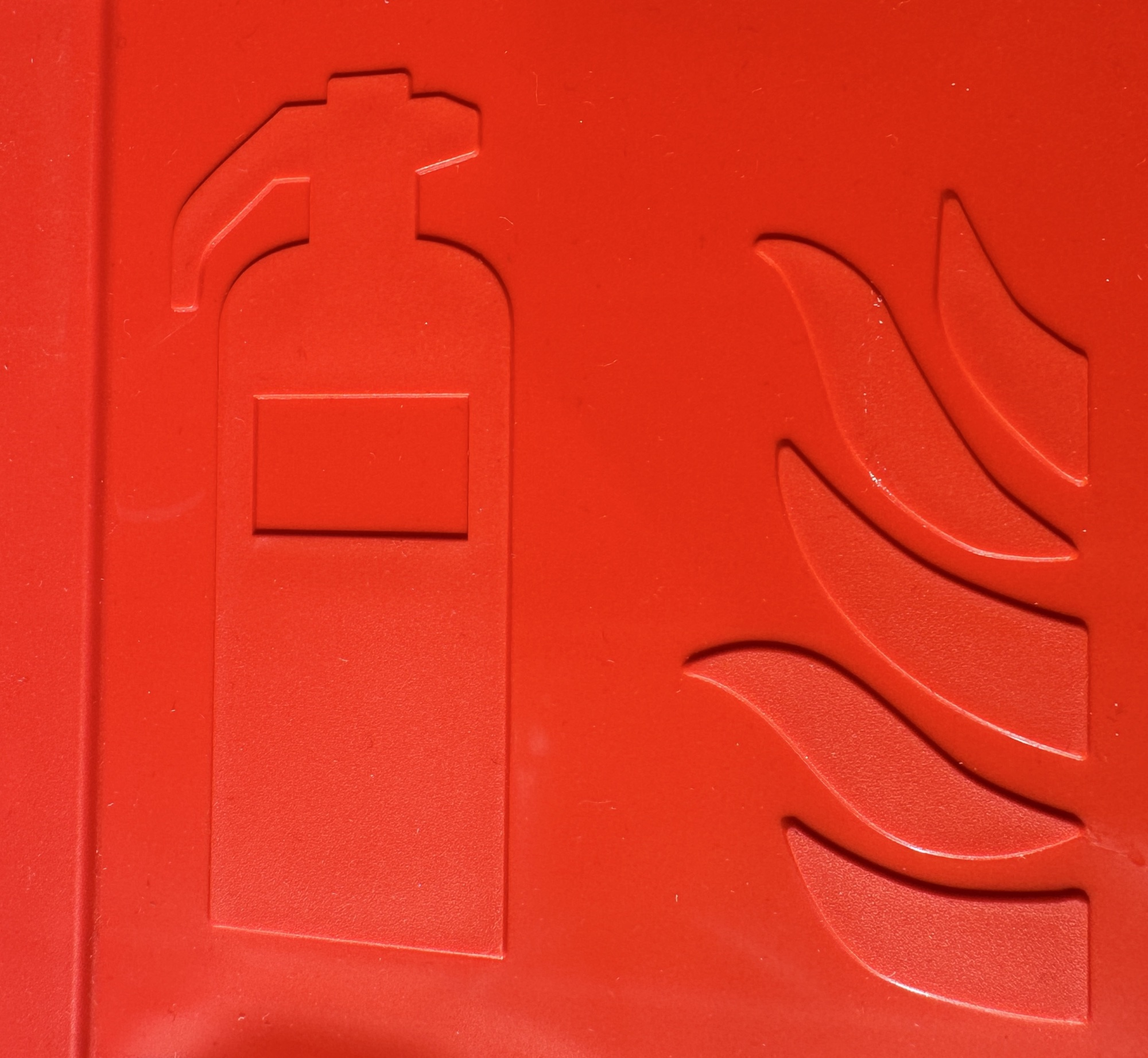
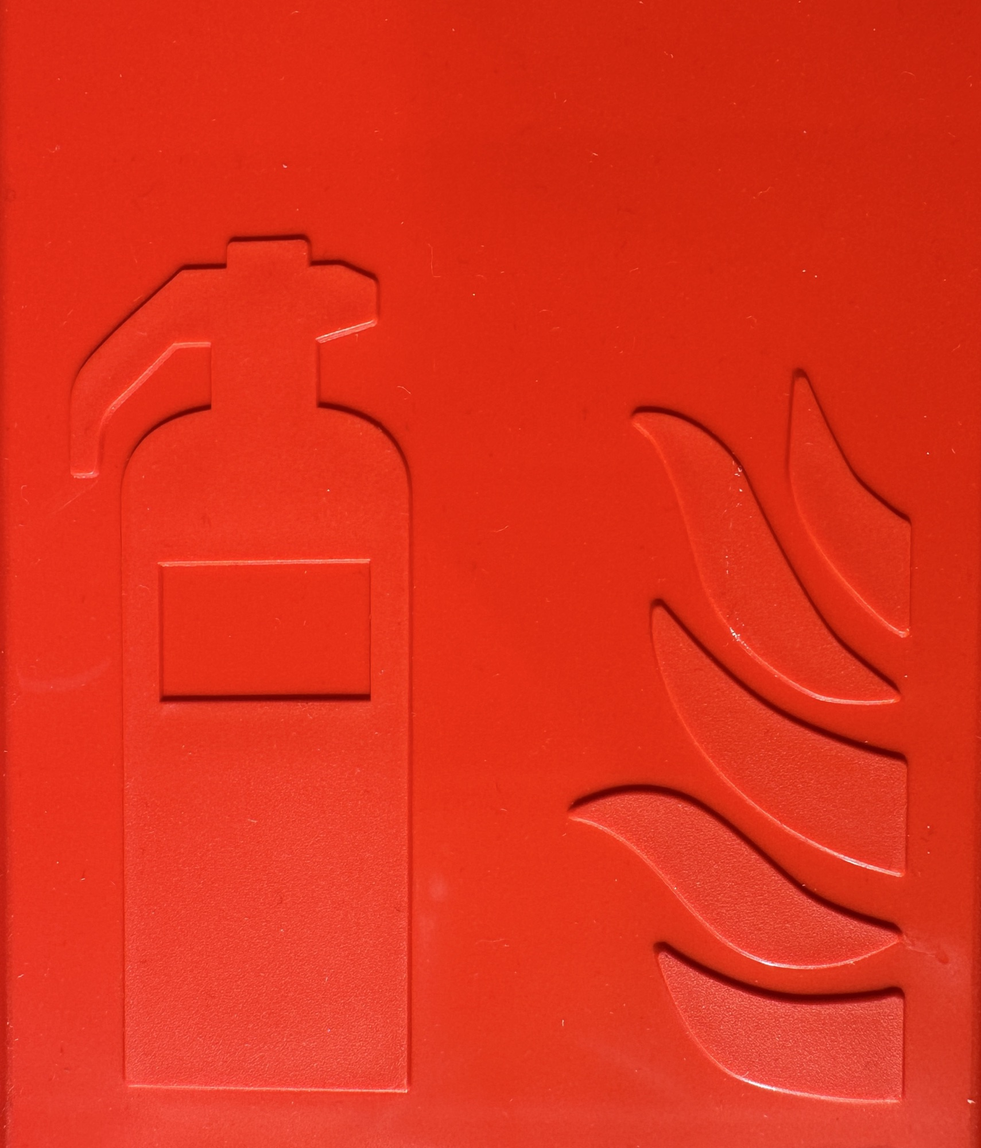
Byter hero-bakgrundsbild till den uppladdade släckarbilden

diff --git a/src/styles.css b/src/styles.css
@@ -713,9 +713,9 @@ ol {
   width: 100%;
   height: 100%;
   object-fit: cover;
-  object-position: 50% 0%;
-  transform: scale(1.2);
-  transform-origin: 50% 0%;
+  object-position: 50% 50%;
+  transform: scale(1.15);
+  transform-origin: 50% 50%;
   filter: brightness(0.4) saturate(1.05) contrast(1.05);
 }
 
